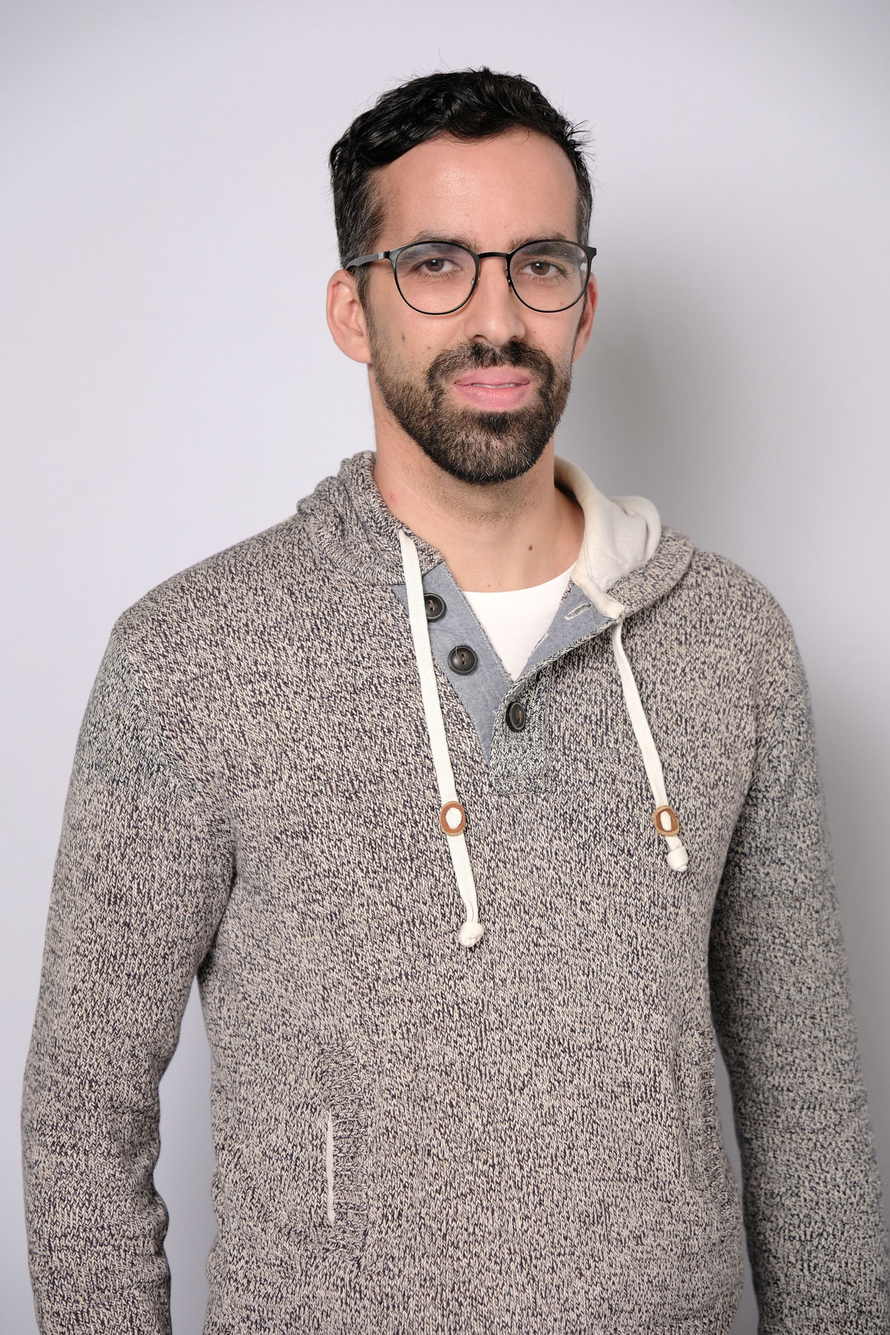
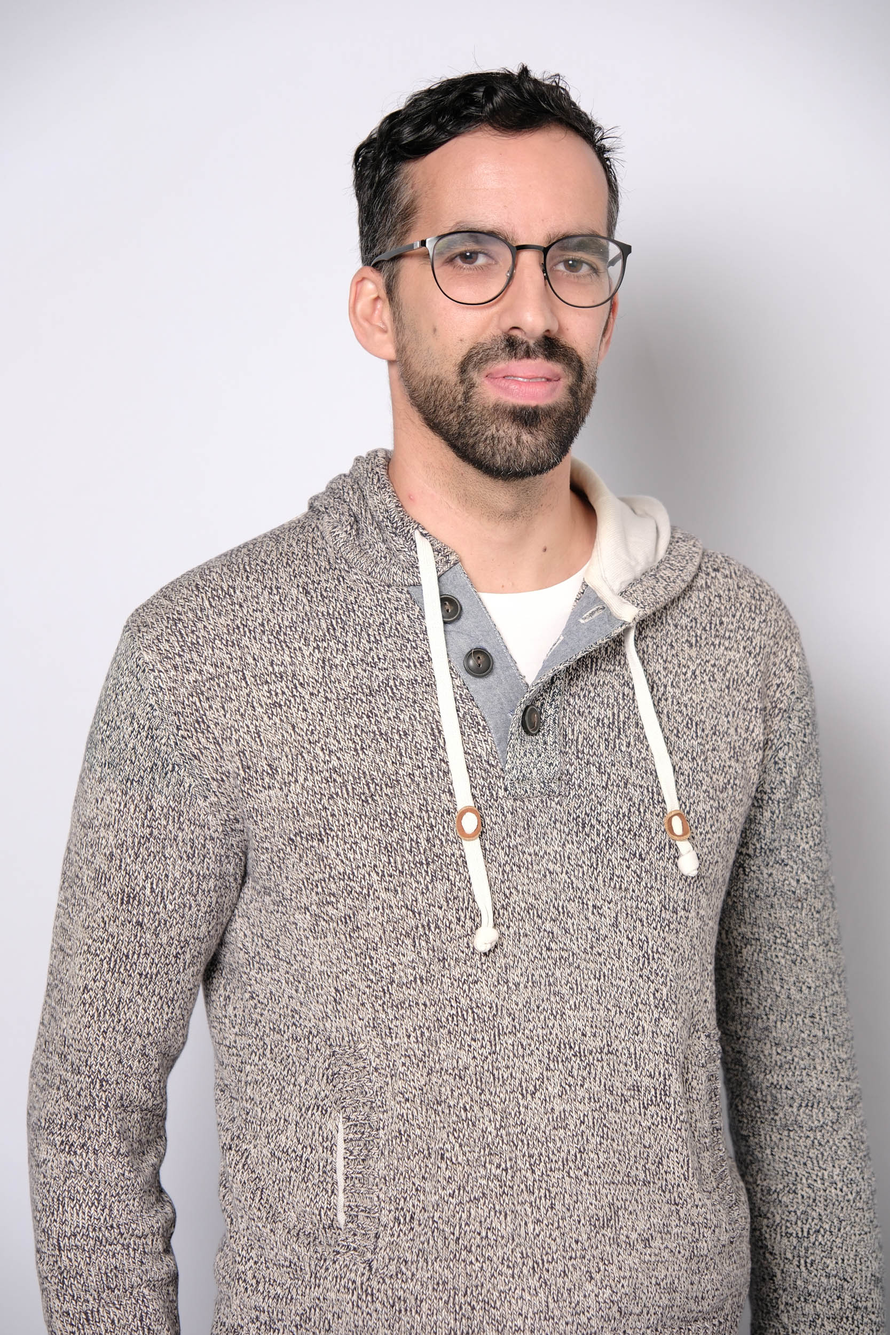
MAJ2

diff --git a/style.css b/style.css
@@ -206,9 +206,15 @@ nav .container {
 .about-photo {
     width: 300px;
     height: 300px;
-    object-fit: cover;
-    border-radius: 50%; /* Photo ronde, comme l'exemple */
-    border: 5px solid var(--color-primary);
+    border-radius: 50%; /* Cercle parfait */
+    object-fit: cover; /* Remplit le cercle sans déformation */
+    object-position: top center; /* Décale légèrement vers le haut */
+    display: block;
+    margin: 0 auto;
+    background-color: white; /* Évite les bandes sombres autour */
+    border: 15px solid var(--color-primary); /* Cercle bleu */
+    box-sizing: border-box; /* Empêche le border de dépasser le cadre */
+    padding: 0; /* Supprime le décalage vertical */
 }
 
 .about-text {
